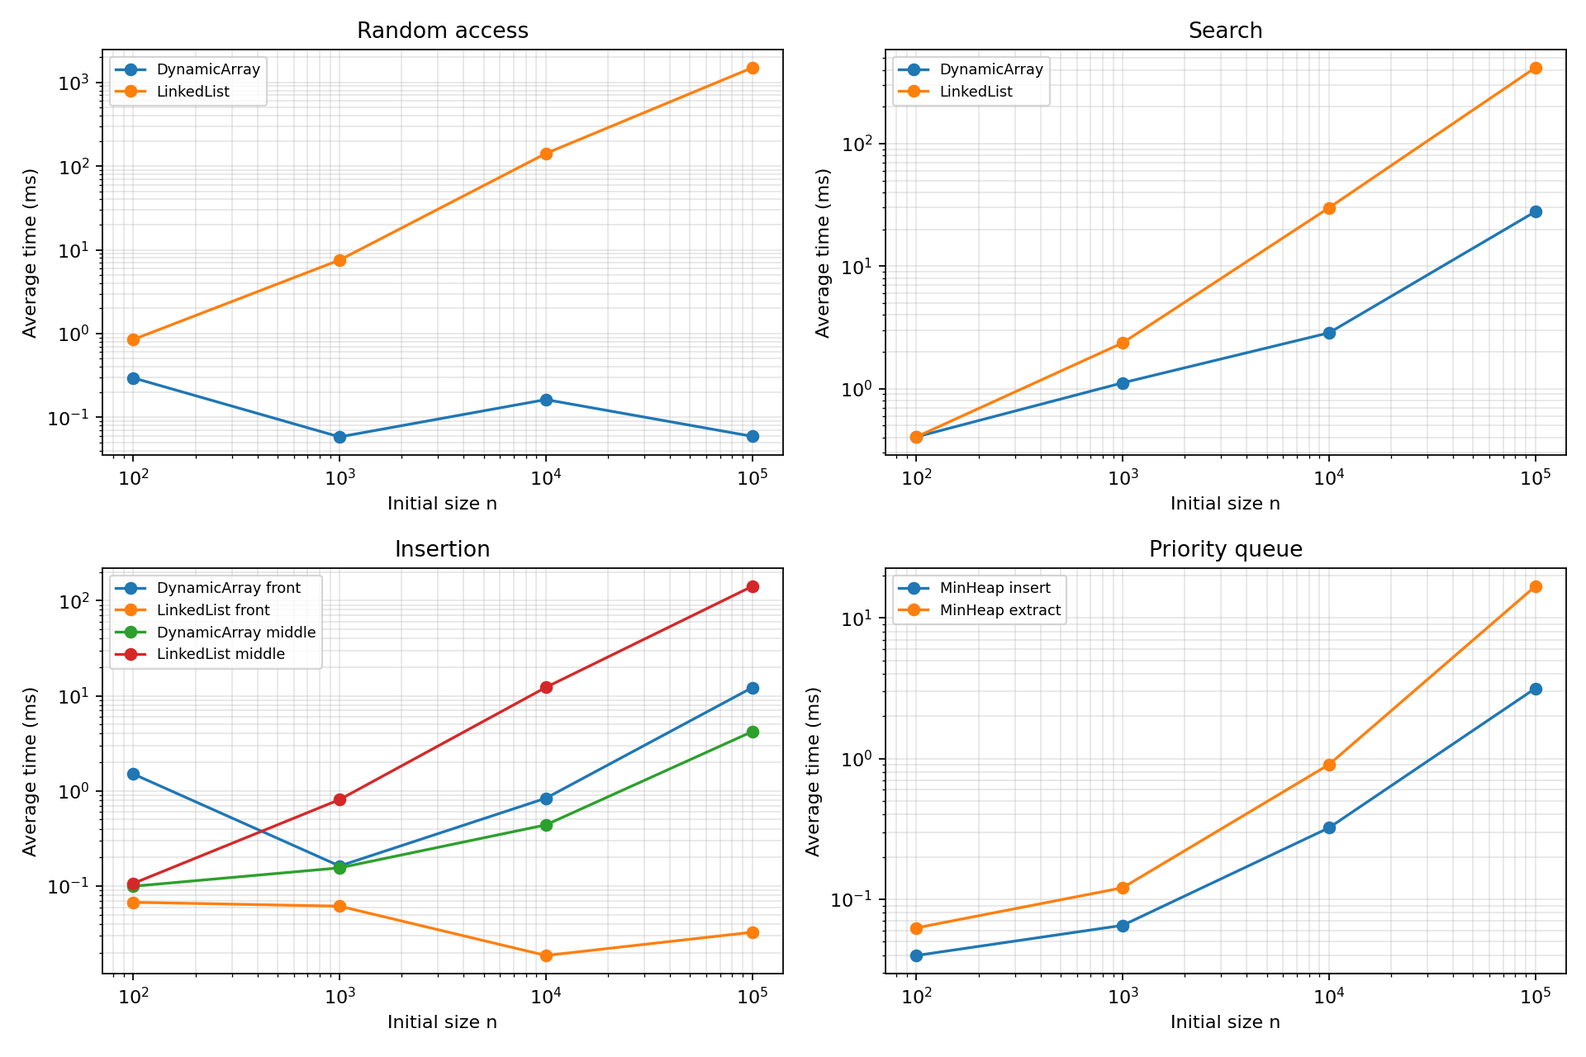
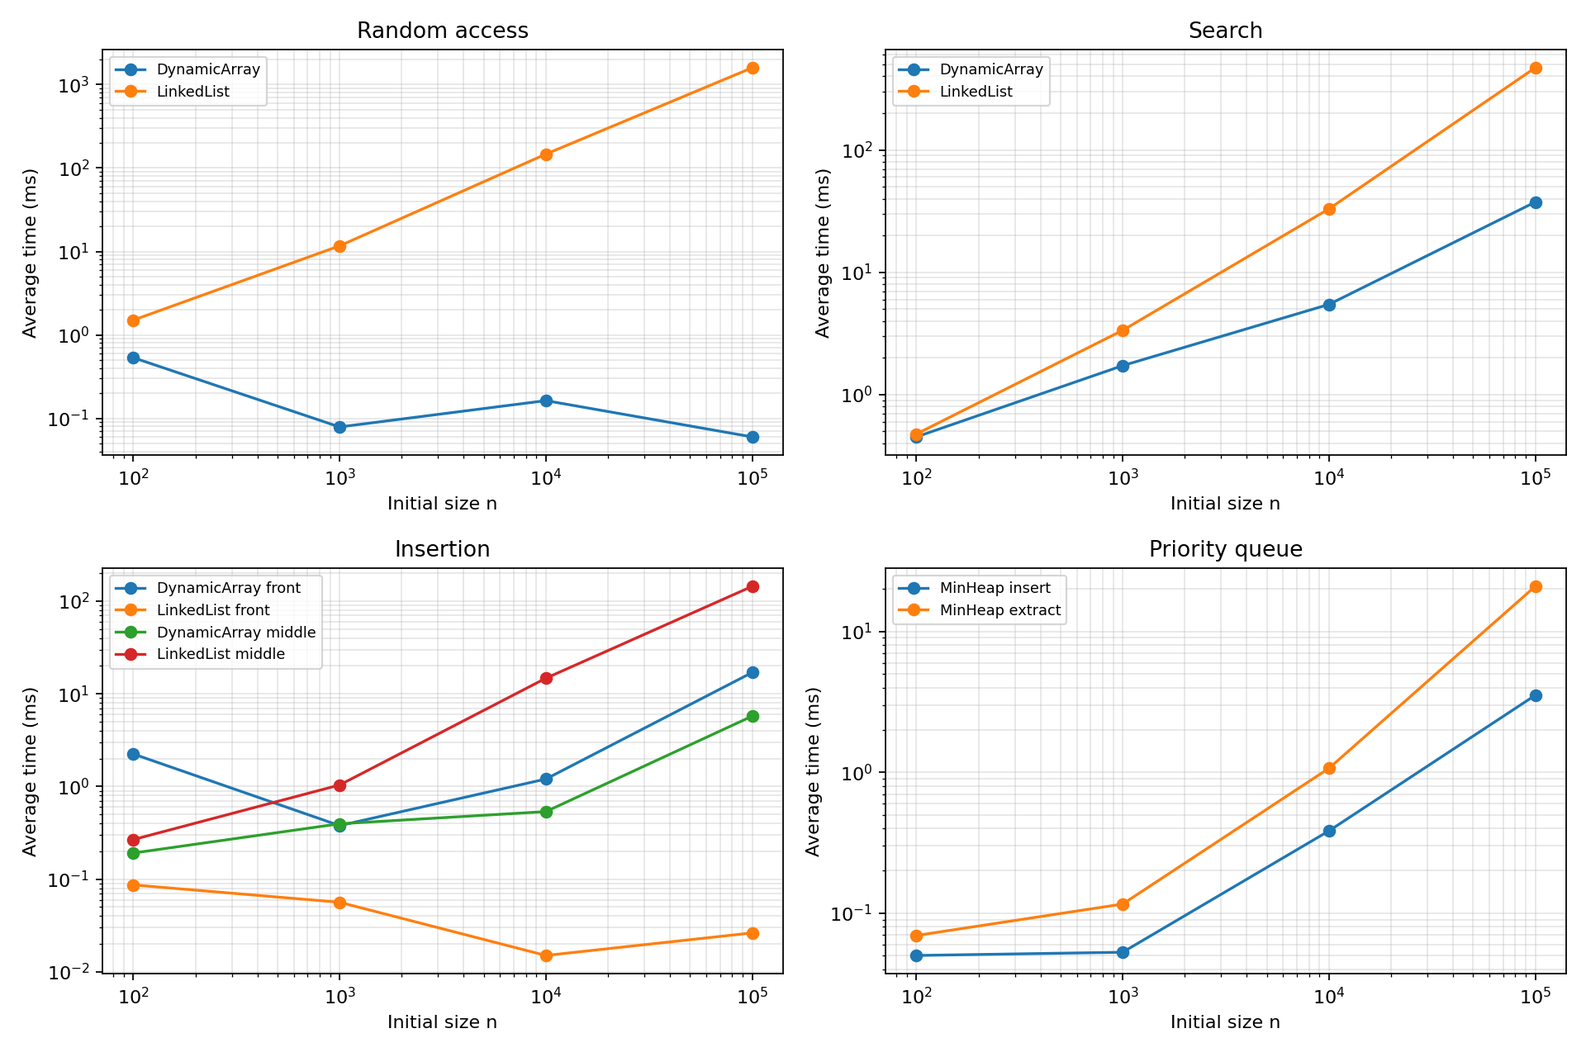
docs: update report for latest benchmark run

diff --git a/README.md b/README.md
@@ -5,19 +5,11 @@
 
 ## 1. Overview
 
-This project implements a dynamic array, a singly linked list, and a min-heap using integers. The goal is to compare correctness, theoretical complexity, and measured performance. The structures use plain arrays and nodes. Java collections appear only in the tests as reference implementations.
-
-| File | Purpose |
-| --- | --- |
-| [DynamicArray.java](src/main/java/kz/aitu/daa/assignment2/DynamicArray.java) | Resizable array with indexed operations. |
-| [SimpleLinkedList.java](src/main/java/kz/aitu/daa/assignment2/SimpleLinkedList.java) | Singly linked list with head and tail pointers. |
-| [MinHeap.java](src/main/java/kz/aitu/daa/assignment2/MinHeap.java) | Array-based binary min-heap. |
-| [Benchmark.java](src/main/java/kz/aitu/daa/assignment2/Benchmark.java) | Four workloads, timing, counters, and CSV output. |
-| [src/test/java](src/test/java/kz/aitu/daa/assignment2) | Correctness tests against Java collections. |
+I implemented a dynamic array, a singly linked list, and a min-heap for integers. I compare their correctness, complexity, and speed. The tests use Java collections to check my results, but the three structures are my own implementations.
 
 ### Run the project
 
-Requirements: JDK 17 or newer, Maven, and Python with Matplotlib only if regenerating plots.
+Use JDK 17 or newer and Maven. Python with Matplotlib is needed only to remake the plots.
 
 ```bash
 mvn clean test
@@ -25,11 +17,11 @@ mvn exec:java
 python plot_results.py
 ```
 
-Run these commands from the project directory. `mvn exec:java` writes [results.csv](results/tables/results.csv). The Python command reads that CSV and writes the two PNG plots. The Java source targets Java 17. The recorded experiment below ran on Windows with Java 25.
+Run the commands from this folder. The benchmark saves [results.csv](results/tables/results.csv). These results were measured on Windows with Java 25.
 
 ## 2. Complexity Analysis
 
-Here `n` is the current number of elements. Auxiliary space means extra space for one operation, excluding the structure's normal `O(n)` storage. `Θ(f)` is a tight bound: it means both `O(f)` and `Ω(f)`. An `O(f)` bound states an upper limit; an `Ω(f)` bound states a lower limit.
+Here `n` is the number of stored elements. `O` is an upper bound, `Ω` is a lower bound, and `Θ` is a tight bound (both upper and lower). Auxiliary space means extra space for one operation, not the space used to store the whole structure.
 
 | Structure | Operation | Best | Average | Worst | Auxiliary space |
 | --- | --- | --- | --- | --- | --- |
@@ -47,35 +39,37 @@ Here `n` is the current number of elements. Auxiliary space means extra space fo
 | Min-heap | `peekMin()` | `Θ(1)` | `Θ(1)` | `Θ(1)` | `Θ(1)` |
 | Min-heap | `extractMin()` | `Θ(1)` | `O(log n)` | `Θ(log n)` | `Θ(1)` |
 
-The average indexed-operation bounds assume an approximately uniform index. Average search assumes a match is not always at the first element; the measured search workload uses absent values. Array access uses one address calculation. Linked-list access follows one `next` link per position, so even though both structures store `n` values, their `get(index)` costs differ. A linked-list middle insertion must first find the previous node. At the head it changes links without shifting other elements. The tail pointer makes `add(x)` constant time.
+The average indexed cases assume random positions. An array reads an index directly but shifts elements for front or middle changes. A linked list follows nodes to reach an index, but changing its head is fast. Its tail pointer makes `add(x)` constant time. Both structures must inspect every value for an unsuccessful search, so that case is `Θ(n)` and also `Ω(n)`.
 
-The dynamic array doubles capacity when full. A resize copies `n` elements, but over many appends the total copying is linear, so one append is amortized `Θ(1)`. The heap also doubles its array. Its normal sift-up takes at most the heap height, `O(log n)`, but an individual resize can take `Θ(n)`. The heap's root is the minimum, so `peekMin()` is constant time. After extraction, sift-down may follow the height of the tree. For nonempty input every operation also has an `Ω(1)` lower bound because it must do at least one step. Unsuccessful `contains` has the stronger `Ω(n)` bound because it inspects every element.
+The array and heap double their capacity when full. Copying makes one resize `Θ(n)`, but repeated appends have amortized `Θ(1)` cost. In the heap, the minimum is at the root. `peekMin()` is `Θ(1)`, while moving a value up or down takes at most `O(log n)` steps.
 
 ## 3. Correctness: Two Loop Invariants
 
 ### 3.1 Dynamic array `add(index, x)`
 
-The loop shifts elements from right to left. Let `oldSize` be the size before insertion.
+This loop makes room for the new value by shifting elements right. `oldSize` is the size before insertion.
 
-1. **Invariant:** At the start of an iteration with loop variable `i`, each original element at an index `j` with `i <= j < oldSize` is already at `j + 1`. Every original element before `i` is still at its original index.
-2. **Initialization:** The loop starts at `i = oldSize`. No element has been shifted yet, so the statement is true.
-3. **Maintenance:** The assignment `data[i] = data[i - 1]` moves the original element at `i - 1` right by one. The loop decreases `i`, so the invariant holds for the next iteration. Shifting right to left prevents overwriting a value before it is copied.
-4. **Termination:** The loop stops when `i == index`. Every original element from `index` to `oldSize - 1` is now at its old index plus one. Elements before `index` are unchanged.
-5. **Correctness:** Writing `x` at `index` fills the free position. Increasing `size` gives exactly the old sequence with `x` inserted at the requested position. If capacity was full, the earlier copy to a larger array preserved all old values before the shift began.
+1. **Invariant:** Before iteration `i`, old elements from `i` to `oldSize - 1` are already one place to the right. Elements before `i` have not moved.
+2. **Initialization:** At `i = oldSize`, nothing has moved yet. The invariant is true.
+3. **Maintenance:** `data[i] = data[i - 1]` shifts one more element. Moving from right to left does not overwrite an element that is still needed.
+4. **Termination:** At `i = index`, all elements from `index` onward have shifted right.
+5. **Correctness:** Writing `x` at `index` gives the old sequence with `x` inserted. If the array was full, resizing copied the old values before the loop.
 
 ### 3.2 Min-heap `insert(x)`
 
-The heap stores the new value in a local variable and moves larger parents down until the right position is found.
+This loop finds the right place for `x` by moving larger parents down.
 
-1. **Invariant:** At the start of each sift-up iteration, the old heap elements still satisfy the min-heap order except possibly at the edge between the new value's current position `i` and its parent. The position `i` is the open place for the new value.
-2. **Initialization:** Adding one place at the end does not change any old parent-child relation. Only the new value might be smaller than its parent.
-3. **Maintenance:** If the parent is larger than `x`, moving that parent down into the open place keeps the lower part ordered. The open place moves to the parent's old position. The only possible remaining violation is now one level higher, so the invariant remains true.
-4. **Termination:** The loop stops at the root or when the parent is no larger than `x`.
-5. **Correctness:** Putting `x` in the open place satisfies its relation with its parent. The lower part was kept ordered by the invariant. Therefore every parent is no larger than its children, and the min-heap property holds.
+1. **Invariant:** The old heap order is still correct except possibly between `x` and the parent of its current position.
+2. **Initialization:** The new position is at the end, so the old heap has not changed.
+3. **Maintenance:** If a parent is larger than `x`, move it down. The lower part stays ordered; now only the next parent above might be too large.
+4. **Termination:** Stop at the root or when the parent is no larger than `x`.
+5. **Correctness:** Put `x` in the open position. Its parent and the elements below it are in order, so the whole heap is valid.
+
+The JUnit tests cover empty structures, one value, duplicates, invalid indices, and large inputs. They compare results with Java's `ArrayList`, `LinkedList`, and `PriorityQueue`. Heap tests also check its order after inserts and removals.
 
 ## 4. Experimental Setup
 
-The four fixed workloads use `n = 100, 1,000, 10,000, 100,000`. Here `n` is the initial structure size; `m` is the number of measured operations. Each case runs five times and the CSV reports the arithmetic mean. A new `Random(42)` generates the same values for both list structures at each `n`. Values are nonnegative; the 1,000 search targets are negative, so every search is unsuccessful and makes exactly `n` value comparisons. Input data, random indices, structure setup, printing, and CSV writing are outside the timed sections. Timing uses `System.nanoTime()`.
+I tested `n = 100, 1,000, 10,000, 100,000`. Here `n` is the starting size and `m` is the number of operations. Each test runs five times; the table shows the average. I used `Random(42)` and `System.nanoTime()`. Data generation, setup, and printing are outside the timer. Search values are negative while stored values are nonnegative, so each search checks the whole structure.
 
 | Workload | Operations per run | Recorded work count |
 | --- | --- | --- |
@@ -84,67 +78,67 @@ The four fixed workloads use `n = 100, 1,000, 10,000, 100,000`. Here `n` is the 
 | Insertion and removal | 1,000 calls at index `0`, then separately at original `n / 2` | Array elements shifted or copied; linked nodes visited plus one structural touch per update. |
 | Priority processing | `n` inserts into an empty heap, then `n` extractions | Comparisons between heap values. |
 
-For insertion, the list starts with `n` values and grows. For removal, it is restored to the original `n` values first. At `n = 100`, 1,000 consecutive removals are impossible. The benchmark therefore uses several batches, each starting from the same original `n` values. It times only removals and sums their times and work counts until exactly 1,000 removals are measured. Rebuilding between batches is outside the timer. The middle index stays equal to the original `n / 2` throughout a batch. This keeps the workload valid without hiding setup time inside the measurement.
+Insertion starts with `n` values. Removal starts again from the original `n` values. For `n = 100`, 1,000 removals need several batches because the structure would become empty. Rebuilding between batches is not timed. The middle index is always the original `n / 2`.
 
-The `work` count has a different unit for different workloads, so compare counts only within the same workload. A linked-list structural touch is one completed add or remove, not every individual pointer assignment. Heap comparisons exclude array-resize copying. The benchmark checks that extracted heap values are in non-decreasing order after timing. Short timings can vary because of JVM warm-up, JIT compilation, garbage collection, CPU scheduling, and cache effects. Counts are more stable than time.
+The work count means different things in different workloads, so compare it only within one workload. For the list, one add or remove counts as one structural touch, not every pointer assignment. Heap counts include value comparisons, not resizing copies. The benchmark checks that heap output is sorted. Very short times can change between runs because of JVM warm-up, JIT, garbage collection, and caching.
 
 ## 5. Results
 
-These are averages from one local run. Times are in milliseconds. The full 56-row dataset, including the work metric and theoretical bound for each case, is in [results.csv](results/tables/results.csv). `A` means dynamic array, `L` means linked list.
+Times are averages in milliseconds. All values are also in [results.csv](results/tables/results.csv). `A` means dynamic array and `L` means linked list.
 
 ### Random access: 10,000 gets
 
 | n | A time | A accesses | L time | L node accesses | Theory for A / L |
 | ---: | ---: | ---: | ---: | ---: | --- |
-| 100 | 0.295 | 10,000 | 0.848 | 511,327 | `O(m)` / `O(mn)` |
-| 1,000 | 0.058 | 10,000 | 7.553 | 5,021,262 | `O(m)` / `O(mn)` |
-| 10,000 | 0.163 | 10,000 | 141.560 | 50,188,951 | `O(m)` / `O(mn)` |
-| 100,000 | 0.059 | 10,000 | 1,494.199 | 504,940,938 | `O(m)` / `O(mn)` |
+| 100 | 0.534 | 10,000 | 1.506 | 511,327 | `O(m)` / `O(mn)` |
+| 1,000 | 0.079 | 10,000 | 11.679 | 5,021,262 | `O(m)` / `O(mn)` |
+| 10,000 | 0.163 | 10,000 | 146.749 | 50,188,951 | `O(m)` / `O(mn)` |
+| 100,000 | 0.060 | 10,000 | 1,587.339 | 504,940,938 | `O(m)` / `O(mn)` |
 
 ### Search: 1,000 absent values
 
 | n | A time | A comparisons | L time | L comparisons | Theory for both |
 | ---: | ---: | ---: | ---: | ---: | --- |
-| 100 | 0.404 | 100,000 | 0.404 | 100,000 | `Θ(mn)` |
-| 1,000 | 1.115 | 1,000,000 | 2.363 | 1,000,000 | `Θ(mn)` |
-| 10,000 | 2.853 | 10,000,000 | 29.921 | 10,000,000 | `Θ(mn)` |
-| 100,000 | 27.809 | 100,000,000 | 415.745 | 100,000,000 | `Θ(mn)` |
+| 100 | 0.450 | 100,000 | 0.476 | 100,000 | `Θ(mn)` |
+| 1,000 | 1.723 | 1,000,000 | 3.350 | 1,000,000 | `Θ(mn)` |
+| 10,000 | 5.457 | 10,000,000 | 32.991 | 10,000,000 | `Θ(mn)` |
+| 100,000 | 37.475 | 100,000,000 | 469.844 | 100,000,000 | `Θ(mn)` |
 
 ### Insertion and removal: 1,000 operations each
 
-Each `work` value is the count of shifts/copies for the array or node visits/link updates for the list. `Front` means index `0`; `middle` means the original `n / 2`.
+Array work counts shifts and copies. List work counts node visits and structural touches. Front is index `0`; middle is the original `n / 2`.
 
 | Operation | n | A time | A work | L time | L work | Theory for A / L |
 | --- | ---: | ---: | ---: | ---: | ---: | --- |
-| Insert front | 100 | 1.505 | 601,420 | 0.068 | 1,000 | `O(mn+m²)` / `O(m)` |
-| Insert front | 1,000 | 0.163 | 1,500,524 | 0.062 | 1,000 | `O(mn+m²)` / `O(m)` |
-| Insert front | 10,000 | 0.838 | 10,499,500 | 0.019 | 1,000 | `O(mn+m²)` / `O(m)` |
-| Insert front | 100,000 | 12.159 | 100,499,500 | 0.033 | 1,000 | `O(mn+m²)` / `O(m)` |
-| Remove front | 100 | 0.212 | 49,500 | 0.050 | 1,000 | `O(mn)` / `O(m)` |
-| Remove front | 1,000 | 0.079 | 499,500 | 0.030 | 1,000 | `O(mn)` / `O(m)` |
-| Remove front | 10,000 | 0.656 | 9,499,500 | 0.032 | 1,000 | `O(mn)` / `O(m)` |
-| Remove front | 100,000 | 11.862 | 99,499,500 | 0.014 | 1,000 | `O(mn)` / `O(m)` |
-| Insert middle | 100 | 0.100 | 551,420 | 0.107 | 51,000 | `O(mn+m²)` / `O(mn)` |
-| Insert middle | 1,000 | 0.155 | 1,000,524 | 0.810 | 501,000 | `O(mn+m²)` / `O(mn)` |
-| Insert middle | 10,000 | 0.439 | 5,499,500 | 12.248 | 5,001,000 | `O(mn+m²)` / `O(mn)` |
-| Insert middle | 100,000 | 4.195 | 50,499,500 | 140.931 | 50,001,000 | `O(mn+m²)` / `O(mn)` |
-| Remove middle | 100 | 0.027 | 24,500 | 0.073 | 51,000 | `O(mn)` / `O(mn)` |
-| Remove middle | 1,000 | 0.046 | 249,500 | 0.773 | 501,000 | `O(mn)` / `O(mn)` |
-| Remove middle | 10,000 | 0.330 | 4,499,500 | 13.480 | 5,001,000 | `O(mn)` / `O(mn)` |
-| Remove middle | 100,000 | 4.275 | 49,499,500 | 131.476 | 50,001,000 | `O(mn)` / `O(mn)` |
+| Insert front | 100 | 2.245 | 601,420 | 0.087 | 1,000 | `O(mn+m²)` / `O(m)` |
+| Insert front | 1,000 | 0.379 | 1,500,524 | 0.056 | 1,000 | `O(mn+m²)` / `O(m)` |
+| Insert front | 10,000 | 1.205 | 10,499,500 | 0.015 | 1,000 | `O(mn+m²)` / `O(m)` |
+| Insert front | 100,000 | 16.986 | 100,499,500 | 0.026 | 1,000 | `O(mn+m²)` / `O(m)` |
+| Remove front | 100 | 0.332 | 49,500 | 0.145 | 1,000 | `O(mn)` / `O(m)` |
+| Remove front | 1,000 | 0.176 | 499,500 | 0.032 | 1,000 | `O(mn)` / `O(m)` |
+| Remove front | 10,000 | 0.906 | 9,499,500 | 0.029 | 1,000 | `O(mn)` / `O(m)` |
+| Remove front | 100,000 | 14.808 | 99,499,500 | 0.011 | 1,000 | `O(mn)` / `O(m)` |
+| Insert middle | 100 | 0.192 | 551,420 | 0.268 | 51,000 | `O(mn+m²)` / `O(mn)` |
+| Insert middle | 1,000 | 0.396 | 1,000,524 | 1.039 | 501,000 | `O(mn+m²)` / `O(mn)` |
+| Insert middle | 10,000 | 0.536 | 5,499,500 | 14.738 | 5,001,000 | `O(mn+m²)` / `O(mn)` |
+| Insert middle | 100,000 | 5.743 | 50,499,500 | 144.350 | 50,001,000 | `O(mn+m²)` / `O(mn)` |
+| Remove middle | 100 | 0.050 | 24,500 | 0.212 | 51,000 | `O(mn)` / `O(mn)` |
+| Remove middle | 1,000 | 0.165 | 249,500 | 1.010 | 501,000 | `O(mn)` / `O(mn)` |
+| Remove middle | 10,000 | 0.363 | 4,499,500 | 11.497 | 5,001,000 | `O(mn)` / `O(mn)` |
+| Remove middle | 100,000 | 5.316 | 49,499,500 | 157.285 | 50,001,000 | `O(mn)` / `O(mn)` |
 
 ### Priority processing: `n` heap inserts, then `n` extractions
 
 | n | Insert time | Insert comparisons | Extract time | Extract comparisons | Theory for both total phases |
 | ---: | ---: | ---: | ---: | ---: | --- |
-| 100 | 0.040 | 194 | 0.063 | 841 | `O(n log n)` |
-| 1,000 | 0.065 | 2,232 | 0.121 | 14,994 | `O(n log n)` |
-| 10,000 | 0.322 | 22,593 | 0.906 | 216,736 | `O(n log n)` |
-| 100,000 | 3.151 | 227,662 | 16.761 | 2,831,463 | `O(n log n)` |
+| 100 | 0.050 | 194 | 0.069 | 841 | `O(n log n)` |
+| 1,000 | 0.053 | 2,232 | 0.116 | 14,994 | `O(n log n)` |
+| 10,000 | 0.384 | 22,593 | 1.068 | 216,736 | `O(n log n)` |
+| 100,000 | 3.522 | 227,662 | 20.891 | 2,831,463 | `O(n log n)` |
 
 ### Plots
 
-Both axes use logarithmic scales so small and large results remain visible. The plots show access, search, insertion, and heap priority processing. All insertion and removal cases remain in the tables and CSV.
+Both axes use logarithmic scales. All results, including removal, are in the tables and CSV.
 
 ![Average execution time against initial size](results/plots/time_vs_n.png)
 
@@ -152,20 +146,20 @@ Both axes use logarithmic scales so small and large results remain visible. The 
 
 ## 6. Performance and Design Analysis
 
-1. **How does increasing `n` affect each workload?** Array random access remains at 10,000 accesses because `m` is fixed. Linked-list random access rises from about 0.5 million to 505 million node accesses. Both searches make exactly `m*n` comparisons. Array front shifts and linked-list middle traversals rise with `n`. Heap insert/extract totals rise as more values are processed.
-2. **Which results agree with theory?** The access and comparison counts match the stated bounds directly. Linked-list head insertion/removal use 1,000 counted link changes at every `n`. Heap extraction comparisons rise roughly as `n log n`. The heap's random inserts made about 2.3 comparisons per value at large `n`, which is below the worst-case `O(log n)` bound and does not contradict it.
-3. **Where do results differ?** The small timing measurements are not monotonic: array access at `n = 100` is slower than at `n = 1,000`, and front insertion at `n = 100` is slower than at `n = 1,000`. JVM warm-up and timer noise dominate work that lasts a fraction of a millisecond. The count trends are clearer. Complexity describes growth, not exact milliseconds for every point.
-4. **Why can equal Big-O costs have different times?** Both unsuccessful searches are `Θ(n)`, but at `n = 100,000` the array took about 27.8 ms and the list about 415.7 ms for 1,000 searches. Array values are stored together, while list traversal follows references across separate nodes.
-5. **How do constants and implementation details matter?** Arrays copy or shift many values, but contiguous memory is cache-friendly. Lists avoid shifting at the head, but allocate nodes and follow pointers in the middle. A heap also does array resizing occasionally. JIT compilation, garbage collection, and CPU cache behavior change measured time without changing the asymptotic bound.
-6. **Why choose a dynamic array?** It is strong for random indexed reads, appending, and often linear search. At `n = 100,000`, its 10,000 random gets took about 0.059 ms versus about 1,494 ms for the list in this run.
-7. **When is a linked list useful?** Frequent head insertion/removal is a good fit. At `n = 100,000`, each 1,000-operation phase used only 1,000 counted structural touches. It is not a good choice for frequent indexed reads or middle operations that must first traverse nodes.
-8. **Why use a heap for priorities?** The minimum is always at the root. `peekMin()` is `Θ(1)`, and insert/extract use a tree path of at most `O(log n)` levels unless an insert resizes the backing array. The benchmark verified sorted extraction.
-9. **How does workload affect the choice?** Choose a dynamic array for indexing, a linked list for repeated head changes, and a min-heap when the next smallest item must be processed repeatedly. The best structure depends on which operation is common, not on one overall ranking.
+1. **What happens when `n` grows?** Array access stays near 10,000 reads. List access, search comparisons, and middle-operation work grow with `n`. Heap work also grows because it processes more values.
+2. **Do results match theory?** Yes for the work counts: list access and both searches grow with `n`, head list changes stay constant per operation, and heap extraction grows roughly as `n log n`.
+3. **What does not match exactly?** Some small timings go down when `n` grows. JVM warm-up and measurement noise matter when an operation takes less than a millisecond. Big-O predicts growth, not exact times.
+4. **Why can the same Big-O have different times?** Both searches are `Θ(n)`, but for `n = 100,000` the array took 37.5 ms and the list 469.8 ms. Array values are next to each other in memory; list nodes need pointer traversal.
+5. **Why do implementation details matter?** Arrays use cache-friendly memory. Lists allocate nodes. Resizing, JIT, and garbage collection also affect time.
+6. **When is a dynamic array useful?** For frequent indexed reads and appends. At `n = 100,000`, 10,000 random reads took 0.060 ms for the array and 1,587 ms for the list.
+7. **When is a linked list useful?** For frequent changes at the front. Middle operations are slower because the list must first find the position.
+8. **Why use a heap for priorities?** The smallest value is at the root. `peekMin()` is `Θ(1)`, and insert/extract normally follow at most `O(log n)` levels. The test also checked sorted extraction.
+9. **How do we choose?** Use an array for indexed access, a list for front changes, and a heap for repeated minimum extraction. The most common operation decides the choice.
 
 ## 7. Design Recommendations
 
-For a program that frequently reads `get(i)`, use the dynamic array. For a queue-like workload that repeatedly changes the front and rarely requests an arbitrary index, this linked list is reasonable. For a scheduler or task queue that repeatedly selects the smallest priority, use the min-heap. None of these structures is best at every operation.
+There is no single best structure. Choose one based on the operations your program uses most.
 
 ## 8. Conclusion
 
-The tests passed and the work counts support the main theoretical predictions. Timings show the practical trade-off: arrays are fast for indexed access, linked lists are efficient at the head, and heaps efficiently maintain a minimum. I learned that a correct Big-O label is only one part of a useful performance comparison. The workload, memory layout, and the way the experiment is measured also matter.
+The tests passed. The results show that theory explains the main trends, while real times also depend on memory and the JVM. I learned to check both correctness and performance before choosing a structure.
